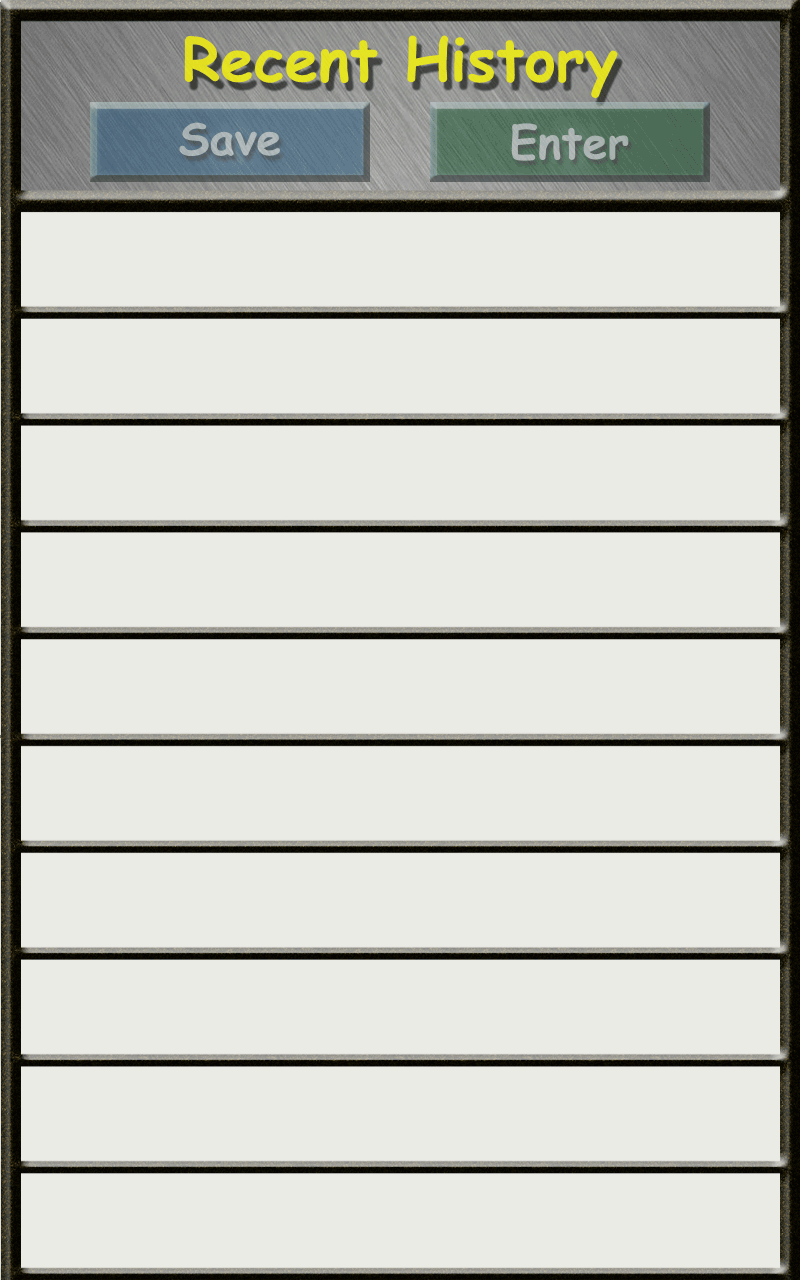
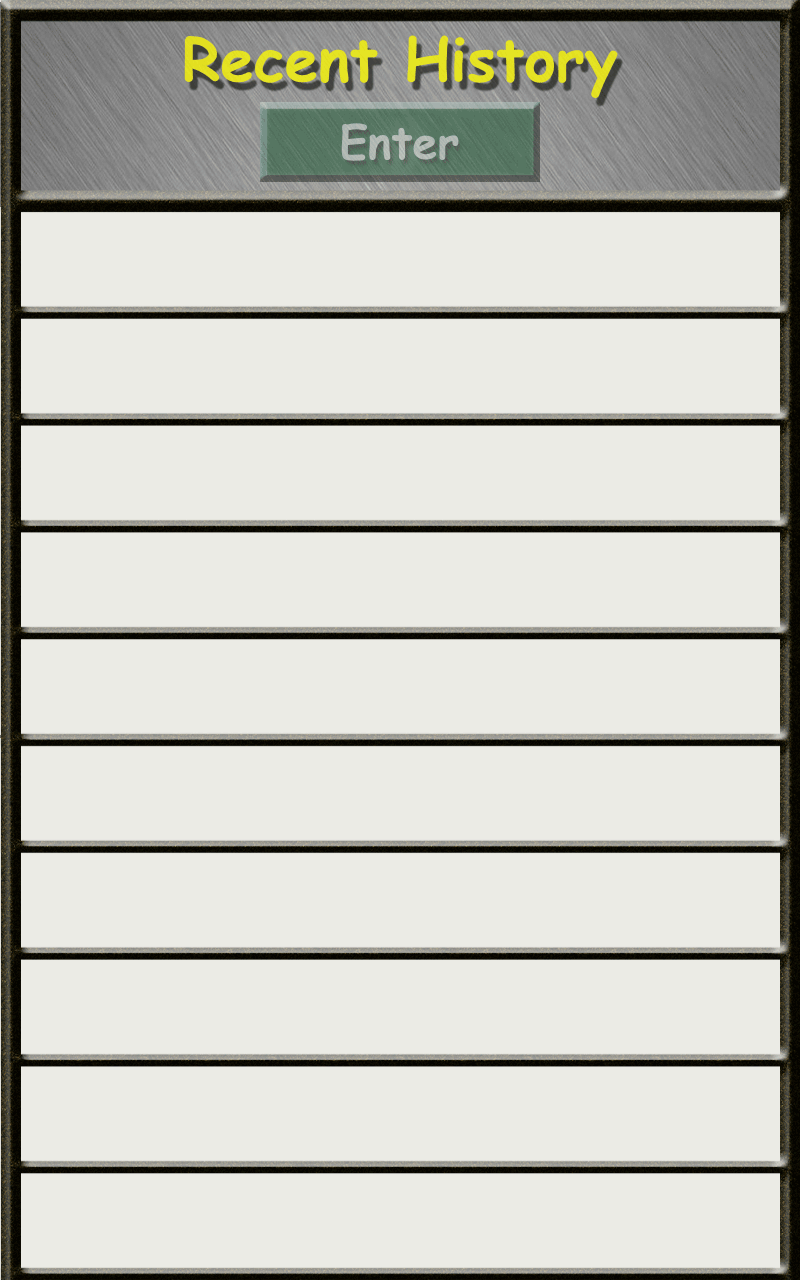
Remove Save Button on History, minor tweaks here and there

Changed region(s): [[0.0938, 0.0625, 0.5625, 0.1562], [0.625, 0.0625, 0.9062, 0.1562]]

diff --git a/src/com/randkprogramming/tapemeasurecalculator/calculator/mechanics/CalcState.java b/src/com/randkprogramming/tapemeasurecalculator/calculator/mechanics/CalcState.java
@@ -29,6 +29,10 @@ public class CalcState {
         if( ! s.contains("\"") && ! s.contains("/") && ! s.contains("Inches") &&
                 (! s.contains("Feet") || ! s.contains("."))) {
 
+            if(s.contains("\'") && s.contains(".")) {
+                return;
+            }
+
             if(equation.getEquation().length() < DIGIT_EQUATION_LIMIT && s.length() < DIGIT_LINE_LIMIT) {
 
                 s = s.replaceAll(" Feet","\'");
@@ -54,6 +58,11 @@ public class CalcState {
     public static void addOperator(Operator op) {
 
         if(equation.getEquation().length() >=  DIGIT_EQUATION_LIMIT) {
+            return;
+        }
+
+        // Limits them to only one operator for now.
+        if(equation.getOperators().size() >= 1) {
             return;
         }
 
@@ -89,6 +98,10 @@ public class CalcState {
 
             if(s.length() > 0 && ! s.contains("\'") && ! s.contains("\"") &&
                     ! s.contains("Feet") && ! s.contains("Inches")) {
+
+                if(s.contains(".") && ! Character.isDigit(s.charAt(s.length()-1))) {
+                    return;
+                }
 
                 equation.appendToLastNum("\'");
                 equation.updateEquation();

diff --git a/src/com/randkprogramming/tapemeasurecalculator/calculator/screens/HistoryScreen.java b/src/com/randkprogramming/tapemeasurecalculator/calculator/screens/HistoryScreen.java
@@ -58,10 +58,10 @@ public class HistoryScreen extends Screen {
             return;
         }
 
-        Button save = ButtonLayout.historyScreenButtons.get(0);
+//        Button save = ButtonLayout.historyScreenButtons.get(0);
         Button enter = ButtonLayout.historyScreenButtons.get(1);
 
-        g.drawPixmap(Assets.history_screen_buttons[0], save.getX(), save.getY());
+//        g.drawPixmap(Assets.history_screen_buttons[0], save.getX(), save.getY());
         g.drawPixmap(Assets.history_screen_buttons[1], enter.getX(), enter.getY());
 
         for(Button b : manager.getPressedButtons().values()) {
@@ -117,10 +117,10 @@ public class HistoryScreen extends Screen {
     private static int[] yCoords = {212,319,425,532,639,746,853,959,1066,1173};
     public void checkBounds(Input.TouchEvent event) {
 
-        Button save = ButtonLayout.historyScreenButtons.get(0);
+//        Button save = ButtonLayout.historyScreenButtons.get(0);
         Button enter = ButtonLayout.historyScreenButtons.get(1);
 
-        checkButtonBounds(save,event);
+//        checkButtonBounds(save,event);
         checkButtonBounds(enter,event);
 
         for(int i = 0; i < 10; i++) {

diff --git a/src/com/randkprogramming/tapemeasurecalculator/calculator/buttons/ButtonLayout.java b/src/com/randkprogramming/tapemeasurecalculator/calculator/buttons/ButtonLayout.java
@@ -63,7 +63,8 @@ public class ButtonLayout {
     private static void setupHistoryScreenButtons() {
 
         historyScreenButtons.add(new Button(90,102,280,80,60,85,340,114,ButtonAction.HistoryAction.SAVE));
-        historyScreenButtons.add(new Button(430,102,280,80,400,85,340,114,ButtonAction.HistoryAction.ENTER));
+//        historyScreenButtons.add(new Button(430,102,280,80,400,85,340,114,ButtonAction.HistoryAction.ENTER));
+        historyScreenButtons.add(new Button(260,102,280,80,230,85,340,114,ButtonAction.HistoryAction.ENTER));
     }
 
 
